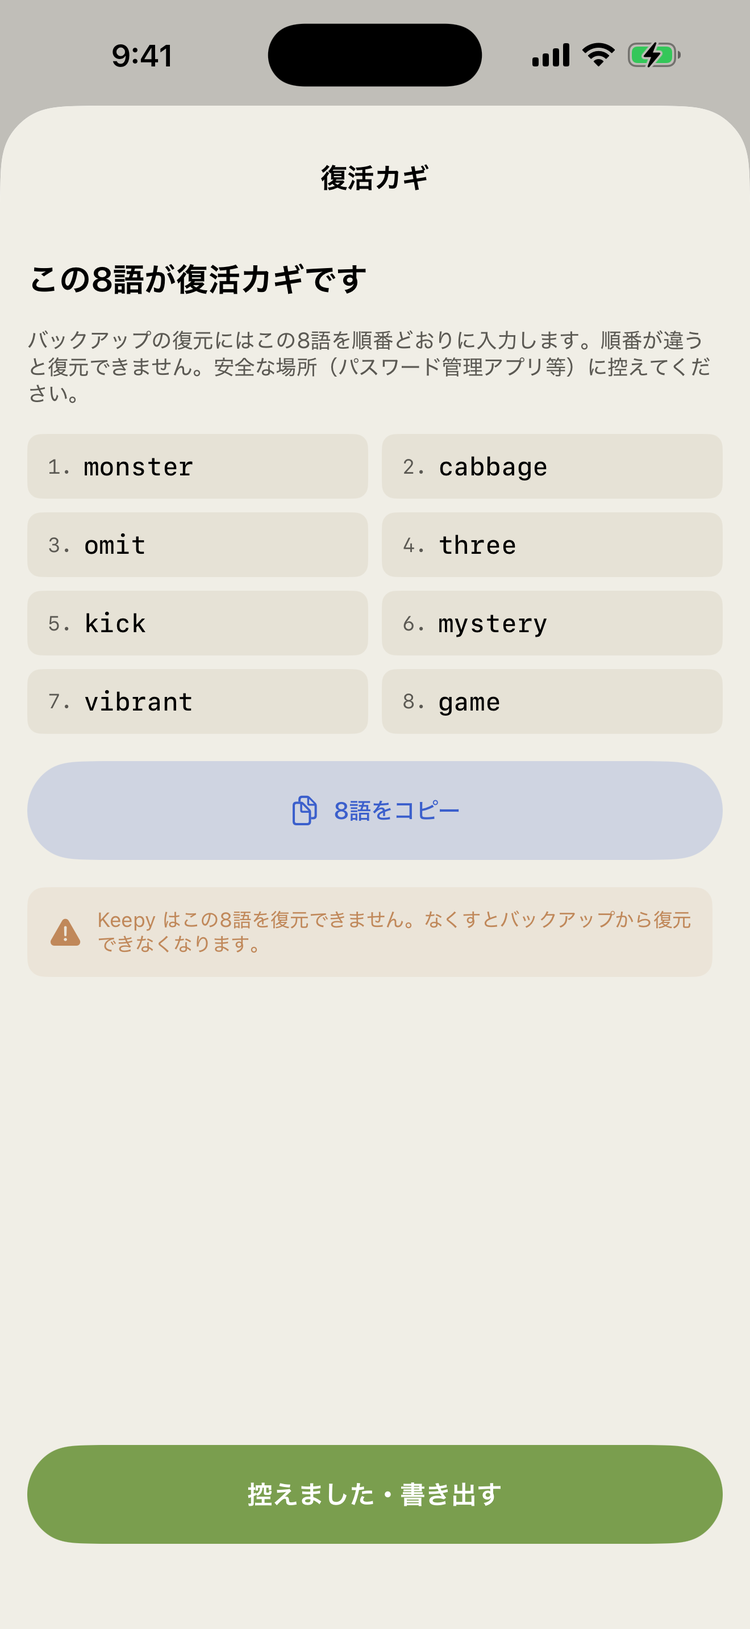
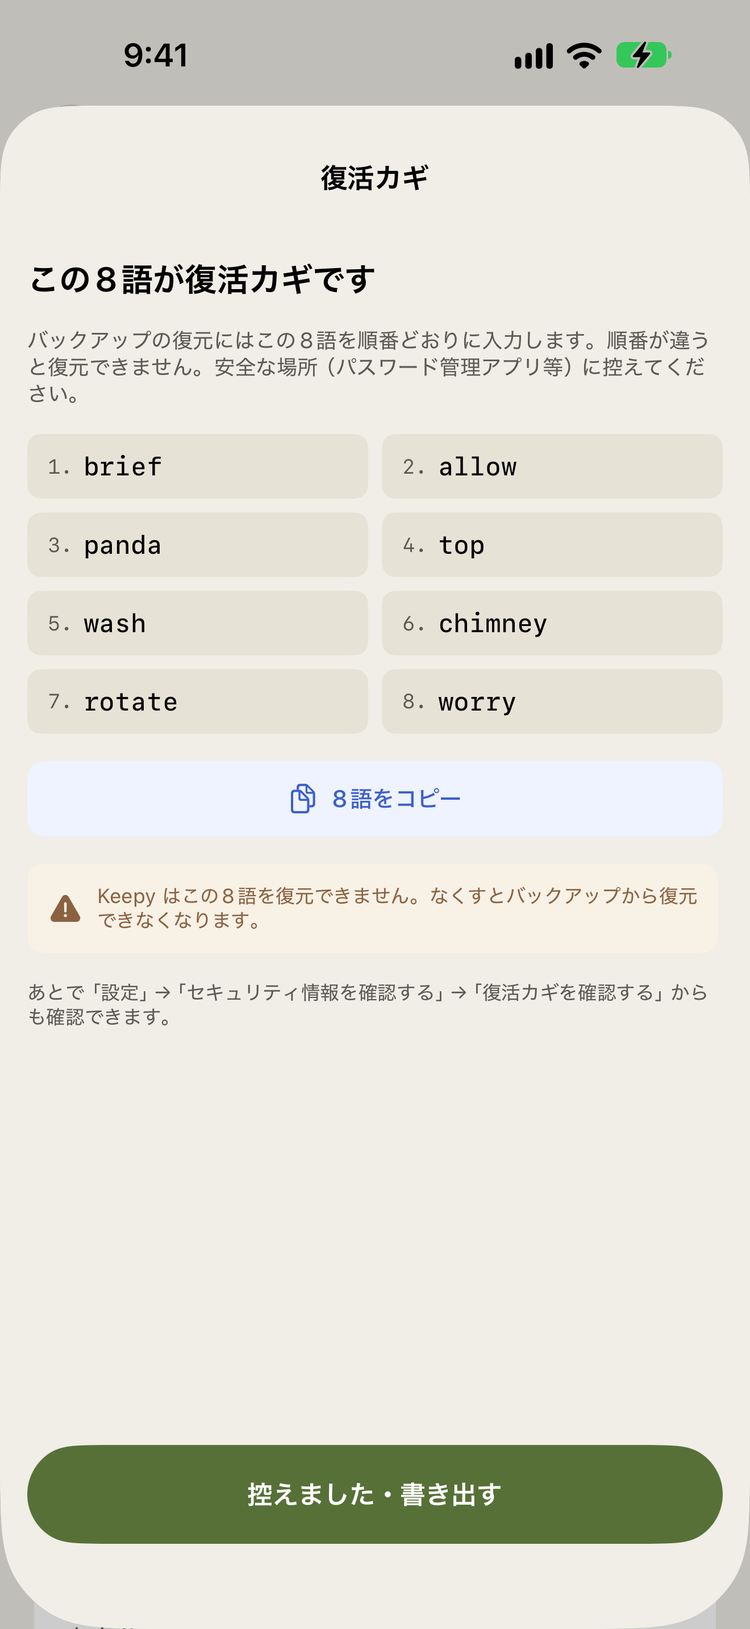
マニュアル: 復活カギの画像を、公開中のアプリの画面に撮り直す
旧画像は 2026-08-22 撮影。アプリの控えの画面は 2026-09-27（2.1）で、「あとで『設定』→『セキュリティ情報を確認する』→『復活カギを確認する』からも確認できます」の一文が増え、ボタンの色も変わっていた。
2.3（build31）と同じコード（Keepy2 HEAD）で、ステータスバー 9:41 で撮影。原本は ~/Desktop/Keepy/サイト画像/site_screenshots_20261012/・旧画像は site_screenshots_pre_20261012/。

diff --git a/manual-recovery-code.html b/manual-recovery-code.html
@@ -184,7 +184,7 @@
         </div>
       </div>
     </div>
-      <div class="phone"><img srcset="img/manual/recovery-211.png 211w, img/manual/recovery-422.png 422w, img/manual/recovery.png 750w" sizes="(max-width: 620px) 186px, 211px" src="img/manual/recovery.png" width="750" height="1629" loading="lazy" alt="復活カギの控えシート。英単語8語と「8語をコピー」ボタン"></div>
+      <div class="phone"><img srcset="img/manual/recovery-211.png?v=20261012 211w, img/manual/recovery-422.png?v=20261012 422w, img/manual/recovery.png?v=20261012 750w" sizes="(max-width: 620px) 186px, 211px" src="img/manual/recovery.png?v=20261012" width="750" height="1629" loading="lazy" alt="復活カギの控えシート。英単語8語と「8語をコピー」ボタン"></div>
     </div>
   </section>
 
